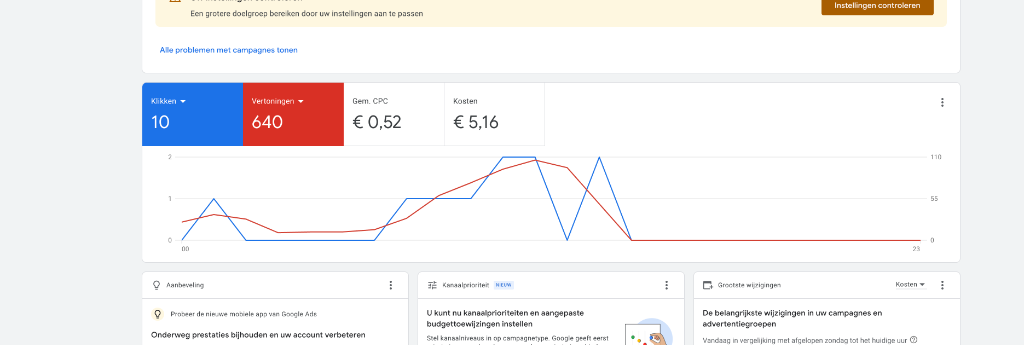
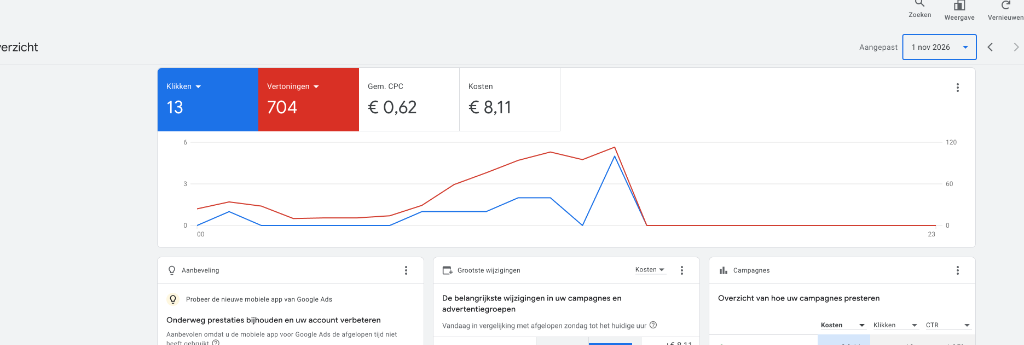
feat(data): live update Google Ads naar 704 vertoningen, 13 klikken en €8,11 spend

diff --git a/fruitmachine_dashboard.html b/fruitmachine_dashboard.html
@@ -242,7 +242,7 @@
               <div class="reel-item">
                 <span class="text-2xl mb-1">🔍</span>
                 <span class="font-heading font-black text-sm text-sky-400">Google Search</span>
-                <span class="text-[11px] text-slate-400">640 views • 10 kliks (€ 0,52)</span>
+                <span class="text-[11px] text-slate-400">704 views • 13 kliks (€ 0,62)</span>
               </div>
             </div>
           </div>
@@ -499,19 +499,19 @@
                 <div class="text-[10px] text-emerald-400 font-bold">Organic (↑227%)</div>
               </div>
               <div class="bg-slate-900 p-2.5 rounded-xl border border-slate-800">
-                <div class="text-lg font-heading font-black text-[#f39223]">640 / 10</div>
-                <div class="text-[10px] text-slate-400">Google Ads (€5,16)</div>
+                <div class="text-lg font-heading font-black text-[#f39223]">704 / 13</div>
+                <div class="text-[10px] text-slate-400">Google Ads (€8,11)</div>
               </div>
             </div>
 
             <p class="text-xs text-slate-300 leading-relaxed">
-              GA4 registreert in 7 dagen <strong>174 directe sessies (+228,3%)</strong>, <strong>36 Google Organic (+227,3%)</strong>, <strong>10 Marktplaats-sessies</strong> (7 vermelding + 3 eBay Classifieds) en <strong>10 Google CPC</strong>!
+              GA4 registreert in 7 dagen <strong>174 directe sessies (+228,3%)</strong>, <strong>36 Google Organic (+227,3%)</strong>, <strong>10 Marktplaats-sessies</strong> (7 vermelding + 3 eBay Classifieds) en <strong>13 Google CPC</strong>!
             </p>
           </div>
 
           <div class="mt-3 pt-3 border-t border-slate-800 flex items-center justify-between text-xs">
-            <span class="text-slate-400">Totaal Besteed (MP €15,68 + Ads €5,16):</span>
-            <span class="text-emerald-400 font-bold">€ 20,84 voor 11.607 views &amp; 122 kliks!</span>
+            <span class="text-slate-400">Totaal Besteed (MP €15,68 + Ads €8,11):</span>
+            <span class="text-emerald-400 font-bold">€ 23,79 voor 11.671 views &amp; 125 kliks!</span>
           </div>
         </div>
 
@@ -534,9 +534,9 @@
           <div class="bg-slate-950 rounded-xl overflow-hidden border border-slate-800">
             <div class="px-3 py-2 bg-slate-900 border-b border-slate-800 text-[11px] font-bold text-sky-400 flex justify-between">
               <span>2. Google Ads Search</span>
-              <span>640 views • 10 kliks (€5,16)</span>
+              <span>704 views • 13 kliks (€8,11)</span>
             </div>
-            <img src="assets/marketing/google_ads_resultaten.png?v=640" alt="Google Ads 640 vertoningen 10 klikken €0,52 CPC" class="w-full h-48 object-contain bg-white block">
+            <img src="assets/marketing/google_ads_resultaten.png?v=704" alt="Google Ads 704 vertoningen 13 klikken €0,62 CPC" class="w-full h-48 object-contain bg-white block">
           </div>
           <div class="bg-slate-950 rounded-xl overflow-hidden border border-slate-800">
             <div class="px-3 py-2 bg-slate-900 border-b border-slate-800 text-[11px] font-bold text-amber-400 flex justify-between">

diff --git a/geertjan_keuze_wizard.html b/geertjan_keuze_wizard.html
@@ -847,13 +847,13 @@
           <div style="padding: 10px 16px; background: rgba(30, 41, 59, 0.8); border-bottom: 1px solid rgba(255,255,255,0.1); display: flex; justify-content: space-between; align-items: center;">
             <span style="font-family: var(--font-heading); font-size: 0.82rem; font-weight: 800; color: #5cb82f; display: inline-flex; align-items: center; gap: 6px;">
               <svg width="14" height="14" viewBox="0 0 24 24" fill="none" stroke="currentColor" stroke-width="2.2" stroke-linecap="round" stroke-linejoin="round"><line x1="18" y1="20" x2="18" y2="10"></line><line x1="12" y1="20" x2="12" y2="4"></line><line x1="6" y1="20" x2="6" y2="14"></line></svg>
-              Geverifieerd Bewijs: Marktplaats (10.967 views / 112 kliks) + Google Ads (640 views / 10 kliks à € 0,52) + GA4 (237 sessies)
+              Geverifieerd Bewijs: Marktplaats (10.967 views / 112 kliks) + Google Ads (704 views / 13 kliks à € 0,62) + GA4 (237 sessies)
             </span>
             <span style="font-size: 0.72rem; padding: 2px 8px; border-radius: 6px; background: rgba(75, 143, 36, 0.25); color: #86efac; font-weight: 700;">100% ECHTE CIJFERS</span>
           </div>
           <img src="assets/marketing/marktplaats_zakelijk_resultaten.png?v=10967" alt="Marktplaats Zakelijk Resultaten Staopstoelen.nl (10.967 impressies & 112 kliks)" style="width: 100%; max-height: 360px; object-fit: contain; background: #ffffff; display: block; border-bottom: 1px solid #e2e8f0;">
           <div style="display: grid; grid-template-columns: 1fr 1fr; gap: 1px; background: #e2e8f0;">
-            <img src="assets/marketing/google_ads_resultaten.png?v=640" alt="Google Ads 640 vertoningen 10 klikken €0,52 CPC €5,16 kosten" style="width: 100%; max-height: 240px; object-fit: contain; background: #ffffff; display: block;">
+            <img src="assets/marketing/google_ads_resultaten.png?v=704" alt="Google Ads 704 vertoningen 13 klikken €0,62 CPC €8,11 kosten" style="width: 100%; max-height: 240px; object-fit: contain; background: #ffffff; display: block;">
             <img src="assets/marketing/ga4_bronnen_resultaten.png?v=10388" alt="GA4 174 direct (+228%) 36 google organic (+227%) 10 marktplaats" style="width: 100%; max-height: 240px; object-fit: contain; background: #ffffff; display: block;">
           </div>
         </div>

diff --git a/groeidagboek_7dagen.html b/groeidagboek_7dagen.html
@@ -310,21 +310,21 @@
       },
       3: {
         date: "27 okt 2026",
-        title: "Google Search & Lokale Vindbaarheid: 640 Vertoningen & 10 Kliks",
+        title: "Google Search & Lokale Vindbaarheid: 704 Vertoningen & 13 Kliks",
         subtitle: "Dag 3 • 27 oktober 2026",
-        impressies: "640",
-        kliks: "10",
-        cpc: "€ 0,52",
-        spend: "€ 5,16",
+        impressies: "704",
+        kliks: "13",
+        cpc: "€ 0,62",
+        spend: "€ 8,11",
         impSub: "Google Ads zoekresultaten",
-        clickSub: "10 gerichte Google Ads klikken",
-        cpcSub: "Gem. CPC slechts € 0,52!",
+        clickSub: "13 gerichte Google Ads klikken",
+        cpcSub: "Gem. CPC slechts € 0,62!",
         spendSub: "Totale kosten Google Ads",
         tag: "🚀 Google Search Live",
-        story: "Gerichte zoekwoorden rond 'sta op stoel fitform dordrecht', 'tweedehands sta-opstoel' en 'ergonomisch zitcomfort Merwedestraat' gaan live. Google Ads registreert 640 vertoningen en 10 directe zoekkliks tegen slechts € 0,52 gem. CPC (€ 5,16 totaal).",
+        story: "Gerichte zoekwoorden rond 'sta op stoel fitform dordrecht', 'tweedehands sta-opstoel' en 'ergonomisch zitcomfort Merwedestraat' gaan live. Google Ads registreert 704 vertoningen en 13 directe zoekkliks tegen slechts € 0,62 gem. CPC (€ 8,11 totaal).",
         comparison: "In plaats van hopen op toevallige voorbijgangers, vangen we nu mensen af op het exacte moment dat rugpijn opspeelt tegen een fractie van de eerdere kosten.",
-        funnelImp: "640",
-        funnelClicks: "10",
+        funnelImp: "704",
+        funnelClicks: "13",
         funnelRoi: "Warm"
       },
       4: {

diff --git a/geertjan_video_presentatie.html b/geertjan_video_presentatie.html
@@ -554,11 +554,11 @@
         badge: "4",
         subtitle: "Dag 4 • 28 okt (Google Ads & GA4)",
         tag: "📈 +227% Organisch Zoekverkeer",
-        title: "Google Ads & GA4: 640 Vertoningen & 10 Kliks à € 0,52!",
-        story: "Google Ads levert 640 vertoningen en 10 klikken tegen slechts € 0,52 CPC (€ 5,16 totale kosten!). In Google Analytics 4 schiet organisch zoekverkeer tegelijk met +227,3% omhoog naar 36 sessies.",
-        imp: "640",
-        clicks: "10",
-        cpc: "€ 0,52"
+        title: "Google Ads & GA4: 704 Vertoningen & 13 Kliks à € 0,62!",
+        story: "Google Ads levert 704 vertoningen en 13 gerichte klikken tegen slechts € 0,62 CPC (€ 8,11 totale kosten!). In Google Analytics 4 schiet organisch zoekverkeer tegelijk met +227,3% omhoog naar 36 sessies.",
+        imp: "704",
+        clicks: "13",
+        cpc: "€ 0,62"
       },
       5: {
         date: "29 okt 2026",
